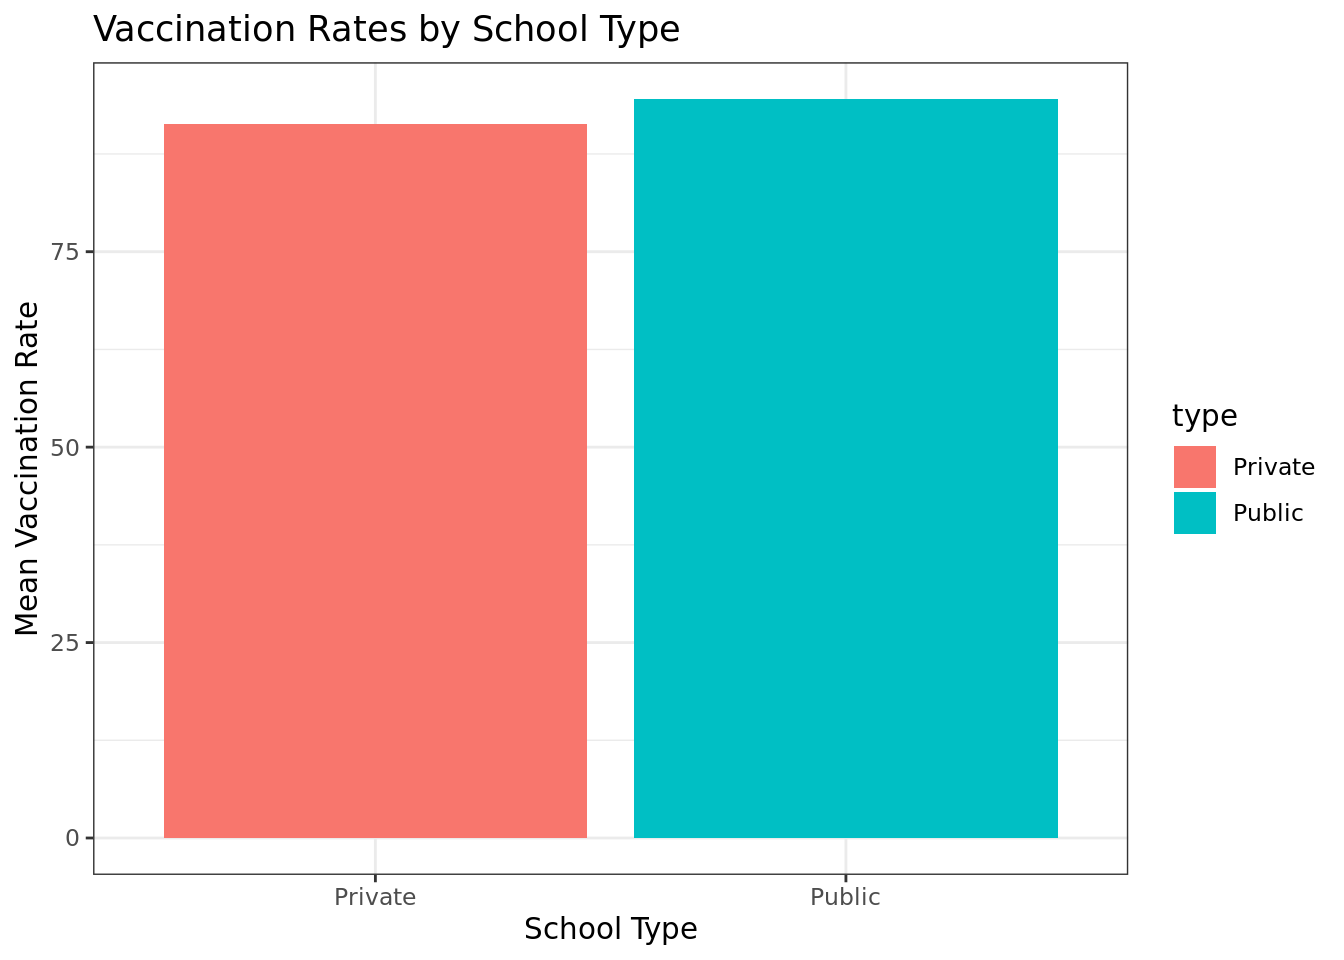
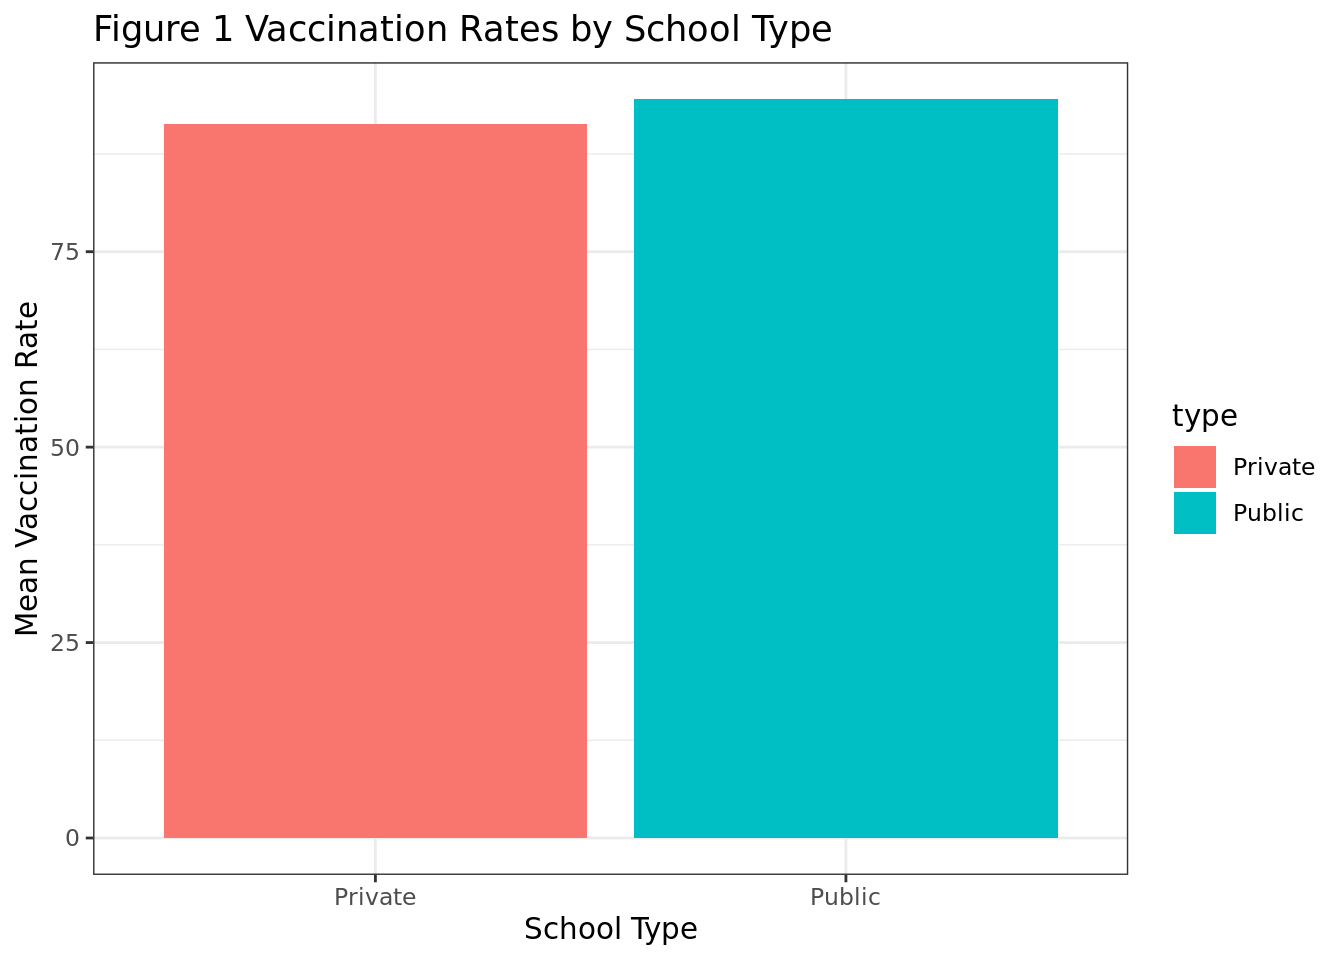
adjusted figure

Changed region(s): [[0.0625, 0.0, 0.625, 0.0625]]

diff --git a/docs/report.html b/docs/report.html
@@ -206,7 +206,7 @@ code span.wa { color: #60a0b0; font-weight: bold; font-style: italic; } /* Warni
 <p>We saw negative values, but we don’t know what it means</p>
 <p>Counties that don’t report vaccination rates</p>
 <p><strong>Motivation and Context</strong></p>
-<p>The motivation for this project stemmed from the measles dataset from tidytuesday. It was interesting to see how the the data set categorically characertized the data. Our team imported the data into R and used the cateogires as a guide to make our plots and questions. The data as reported in the Wall Street Journal presents a map of measles vaccination rates in schools across the United States, showing that some schools have dangerously low vaccination rates, which increases the risk of measles outbreaks. The data is based on information from the 2018-2019 school year and includes public, private, and charter schools. According to the map, many of the schools with the lowest vaccination rates are in states such as Idaho, Utah, Colorado, and Oregon. The article also notes that measles cases have been on the rise in recent years, and emphasizes the importance of vaccination in preventing the spread of the highly contagious virus. Through this narrative and viewing the raw data we were able to form our hypothesis and question.</p>
+<p>The motivation for this project stemmed from the measles dataset from tidytuesday. It was interesting to see how the the data set categorically characterized the data. Our team imported the data into R and used the categorizes as a guide to make our plots and questions. The data as reported in the Wall Street Journal presents a map of measles vaccination rates in schools across the United States, showing that some schools have dangerously low vaccination rates, which increases the risk of measles outbreaks. The data is based on information from the 2018-2019 school year and includes public, private, and charter schools. According to the map, many of the schools with the lowest vaccination rates are in states such as Idaho, Utah, Colorado, and Oregon. The article also notes that measles cases have been on the rise in recent years, and emphasizes the importance of vaccination in preventing the spread of the highly contagious virus. Through this narrative and viewing the raw data we were able to form our hypothesis and question.</p>
 <p><strong>Research question and Hypotheses</strong></p>
 <p><strong>Ethical Issues</strong></p>
 <p>Vaccination data is listed under HIPAA as protected health information and therefore cannot be shared without patient consent. In certain areas, vaccine data is not required for schools as well. The data may also be used to discriminate against certain areas unjustly. The sample population does not all benefit equally from our research.</p>
@@ -302,7 +302,7 @@ $ lng      &lt;dbl&gt; -110.9380, -110.8961, -111.1170, -112.1306, -112.2247, -1
 <span id="cb9-5"><a href="#cb9-5" aria-hidden="true" tabindex="-1"></a></span>
 <span id="cb9-6"><a href="#cb9-6" aria-hidden="true" tabindex="-1"></a><span class="fu">ggplot</span>(mean_vaccination_rate, <span class="fu">aes</span>(<span class="at">x =</span> type, <span class="at">y =</span> overall, <span class="at">fill =</span> type)) <span class="sc">+</span></span>
 <span id="cb9-7"><a href="#cb9-7" aria-hidden="true" tabindex="-1"></a>  <span class="fu">geom_bar</span>(<span class="at">stat =</span> <span class="st">"identity"</span>) <span class="sc">+</span></span>
-<span id="cb9-8"><a href="#cb9-8" aria-hidden="true" tabindex="-1"></a>  <span class="fu">labs</span>(<span class="at">title =</span> <span class="st">"Vaccination Rates by School Type"</span>, </span>
+<span id="cb9-8"><a href="#cb9-8" aria-hidden="true" tabindex="-1"></a>  <span class="fu">labs</span>(<span class="at">title =</span> <span class="st">"Figure 1 Vaccination Rates by School Type"</span>, </span>
 <span id="cb9-9"><a href="#cb9-9" aria-hidden="true" tabindex="-1"></a>       <span class="at">x =</span> <span class="st">"School Type"</span>, </span>
 <span id="cb9-10"><a href="#cb9-10" aria-hidden="true" tabindex="-1"></a>       <span class="at">y =</span> <span class="st">"Mean Vaccination Rate"</span>) <span class="sc">+</span></span>
 <span id="cb9-11"><a href="#cb9-11" aria-hidden="true" tabindex="-1"></a>  <span class="fu">theme_bw</span>()</span></code><button title="Copy to Clipboard" class="code-copy-button"><i class="bi"></i></button></pre></div>
@@ -314,7 +314,7 @@ $ lng      &lt;dbl&gt; -110.9380, -110.8961, -111.1170, -112.1306, -112.2247, -1
 </section>
 <section id="results" class="level2">
 <h2 class="anchored" data-anchor-id="results">Results</h2>
-<p>The graph showing the average vaccination rates between private and public schools seems to show a higher average vaccination rate for public schools. This is possibly due to local government rules and control over public schools in which students may be mandated to get vaccinated. Whereas in private schools it may have been more up to choice and out of government control.</p>
+<p>Figure 1 - The graph showing the average vaccination rates between private and public schools seems to show a higher average vaccination rate for public schools. This is possibly due to local government rules and control over public schools in which students may be mandated to get vaccinated. Whereas in private schools it may have been more up to choice and out of government control.</p>
 
 
 </section>
